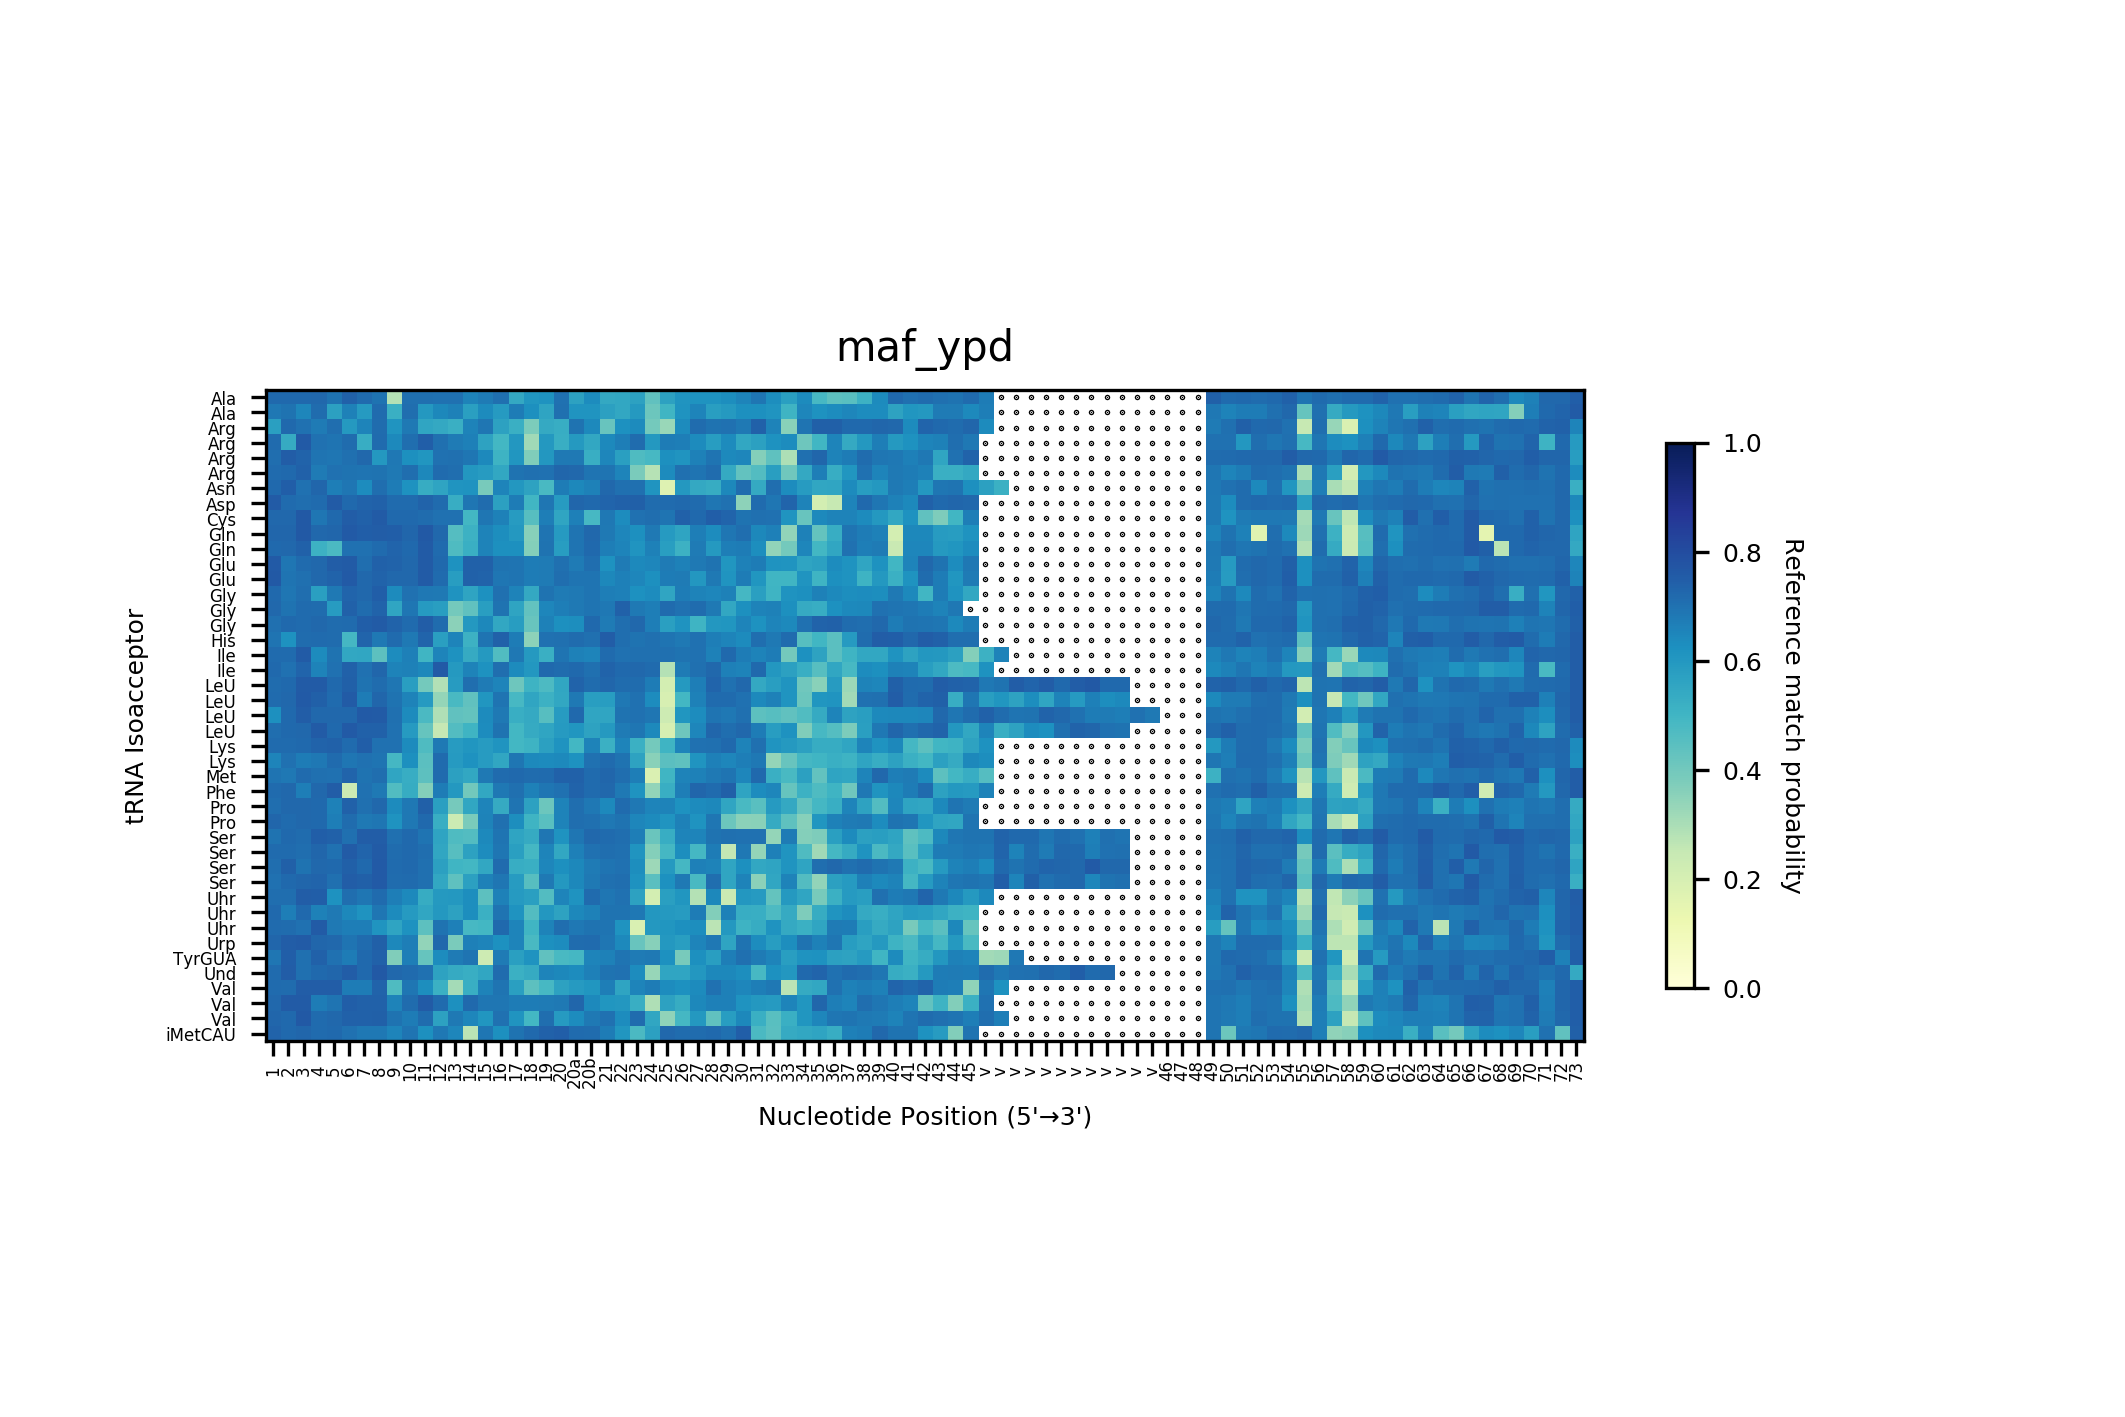
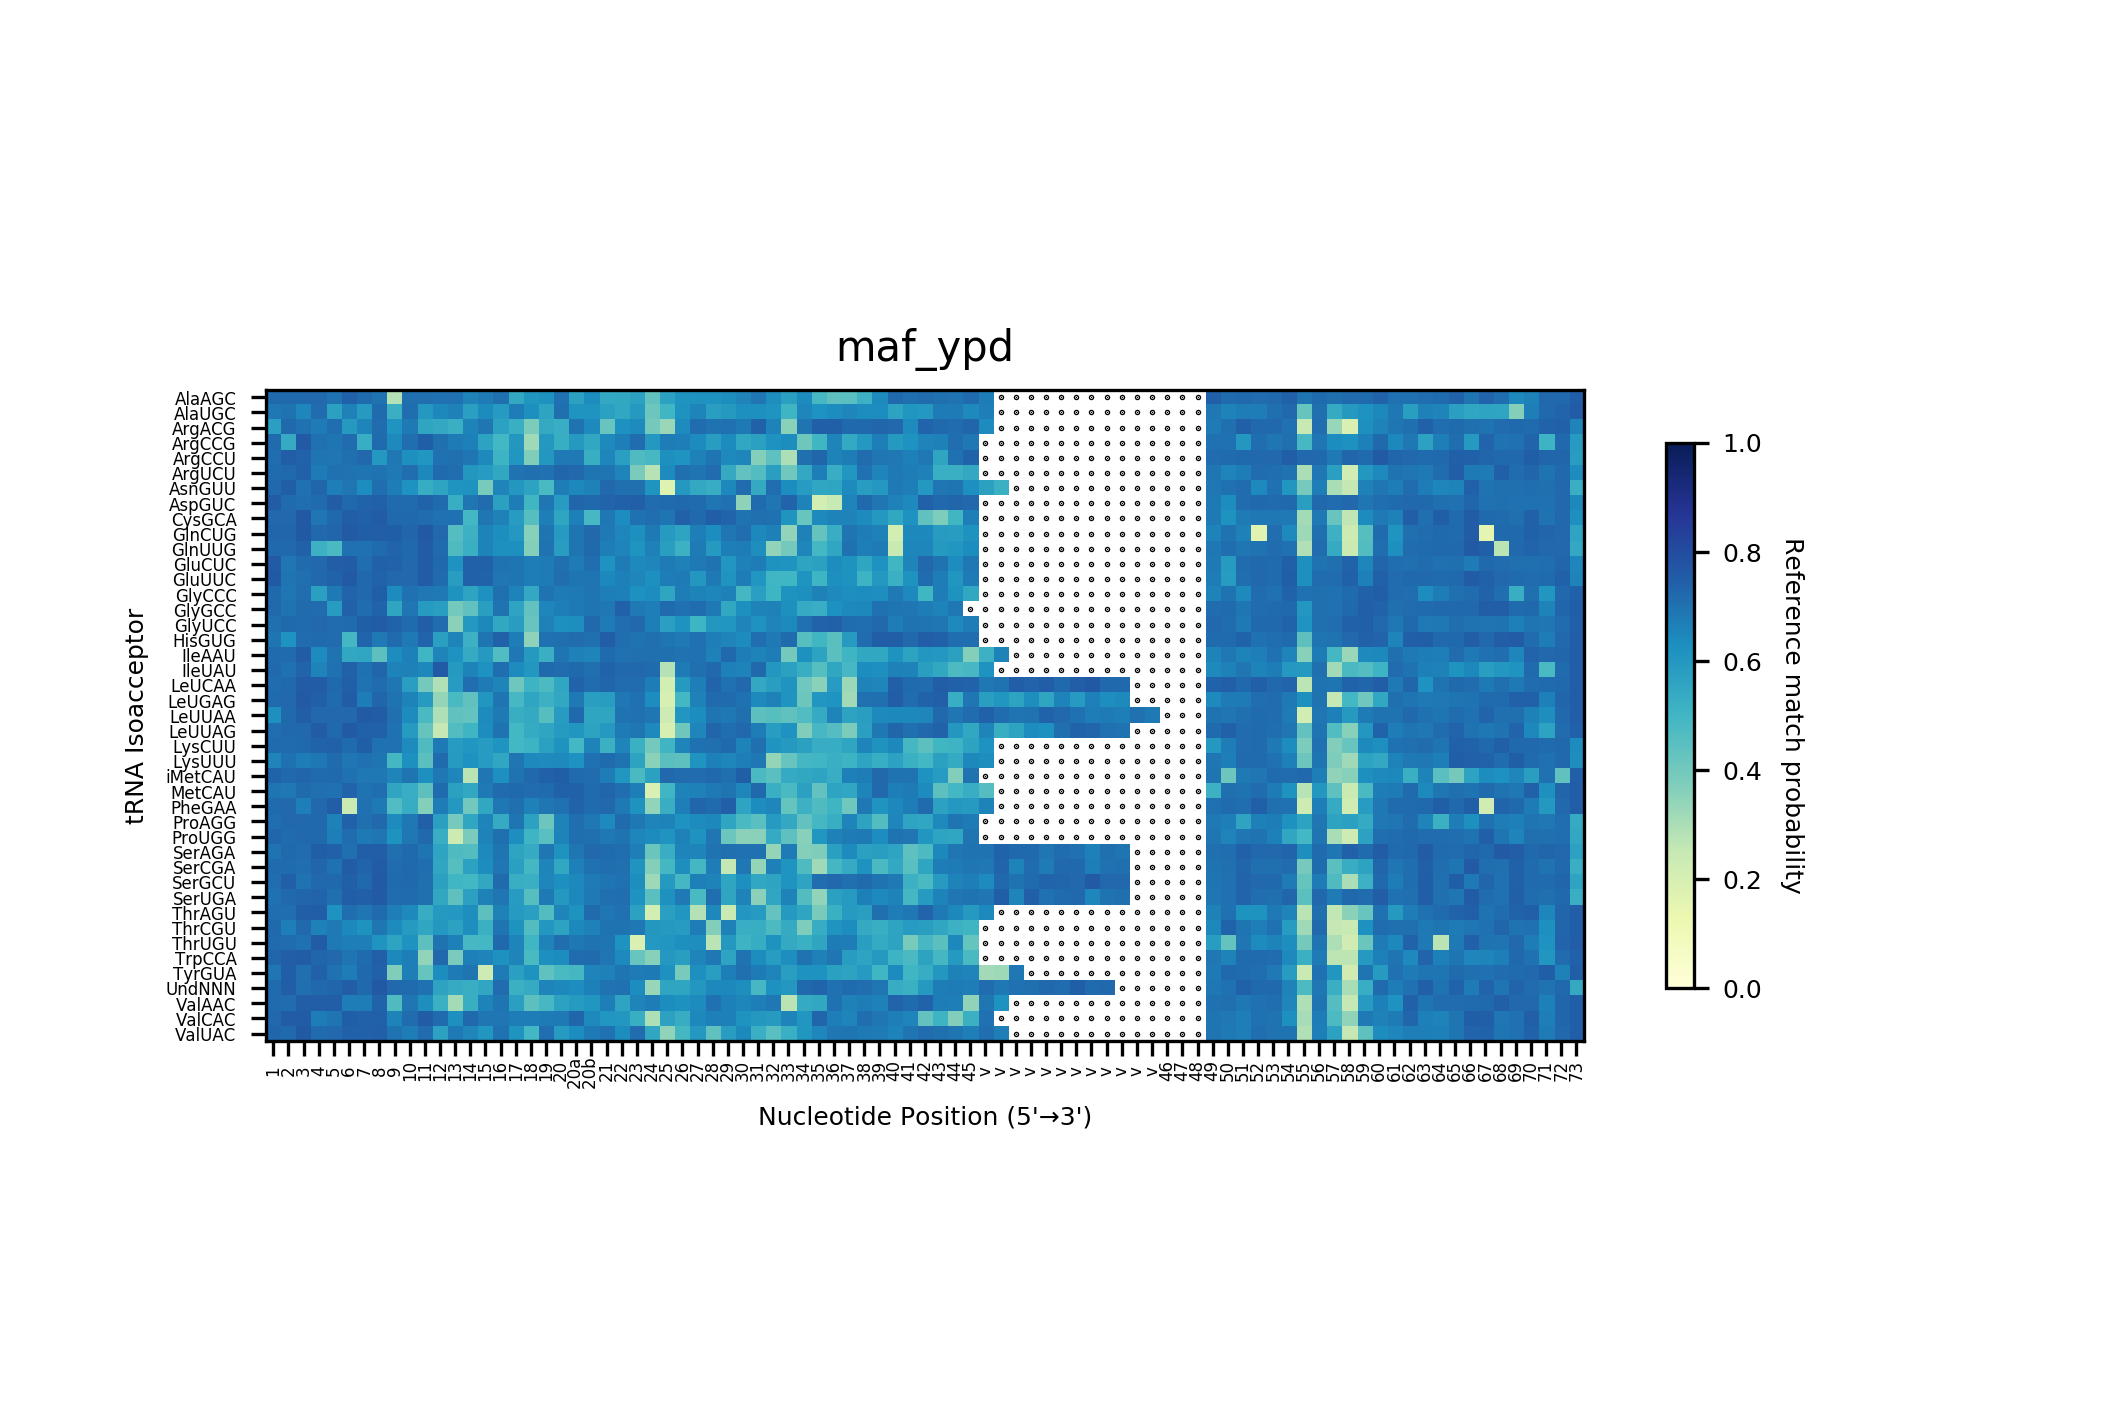
more results

Changed region(s): [[0.0621, 0.2795, 0.528, 0.7452], [0.5591, 0.5279, 0.7454, 0.7452]]

diff --git a/tRNAheatmap.py b/tRNAheatmap.py
@@ -18,7 +18,7 @@ plt.switch_backend('agg')
 
 
 class HeatmapGenerator:
-    def __init__(self, input_file, output_file, lengths_file, adaptors, title, resolution, difference, bidirectional,
+    def __init__(self, input_file, output_file, lengths_file, adaptors, title, resolution, difference, preffered_order, bidirectional,
                  structure):
         self.input_file = input_file
         self.output_file = output_file
@@ -27,6 +27,7 @@ class HeatmapGenerator:
         self.adaptors = [int(adaptors.split(',')[0]), int(adaptors.split(',')[1])]
         self.title = title
         self.difference = difference
+        self.preffered_order = preffered_order
         self.bidirectional = bidirectional
         self.resolution = resolution
 
@@ -69,11 +70,65 @@ class HeatmapGenerator:
         # Filter out tRNAs with adjusted length of 0
         self.tRNA_labels = [tRNA for tRNA, length in self.tRNA_lengths.items() if length > 0]
 
+        # Własna kolejność wierszy na heatmapie
+        preferred_order = []
+        if self.preffered_order:
+            preferred_order = [
+                "Saccharomyces_cerevisiae_tRNA-Asn-GTT-1-1",
+                "Saccharomyces_cerevisiae_tRNA-Arg-ACG-1-1",
+                "Saccharomyces_cerevisiae_tRNA-Arg-TCT-1-1",
+                "Saccharomyces_cerevisiae_tRNA-Cys-GCA-1-1",
+                "Saccharomyces_cerevisiae_tRNA-Ile-AAT-1-1",
+                "Saccharomyces_cerevisiae_tRNA-Ile-TAT-1-1",
+                "Saccharomyces_cerevisiae_tRNA-LeT-TAA-1-1",
+                "Saccharomyces_cerevisiae_tRNA-LeT-TAG-1-1",
+                "Saccharomyces_cerevisiae_tRNA-Lys-CTT-1-1",
+                "Saccharomyces_cerevisiae_tRNA-Lys-TTT-1-1",
+                "Saccharomyces_cerevisiae_tRNA-iMet-CAT-1-1",
+                "Saccharomyces_cerevisiae_tRNA-Met-CAT-1-1",
+                "Saccharomyces_cerevisiae_tRNA-Phe-GAA-1-1",
+                "Saccharomyces_cerevisiae_tRNA-Pro-TGG-1-1",
+                "Saccharomyces_cerevisiae_tRNA-Ser-GCT-1-1",
+                "Saccharomyces_cerevisiae_tRNA-Thr-AGT-1-1",
+                "Saccharomyces_cerevisiae_tRNA-Trp-CCA-1-1",
+                "Saccharomyces_cerevisiae_tRNA-Tyr-GTA-1-1",
+                "Saccharomyces_cerevisiae_tRNA-Val-AAC-1-1",
+                "Saccharomyces_cerevisiae_tRNA-Val-CAC-1-1",
+                "Saccharomyces_cerevisiae_tRNA-Val-TAC-1-1",
+                "Saccharomyces_cerevisiae_tRNA-Ala-AGC-1-1",
+                "Saccharomyces_cerevisiae_tRNA-Asp-GTC-1-1",
+                "Saccharomyces_cerevisiae_tRNA-Gly-GCC-1-1",
+                "Saccharomyces_cerevisiae_tRNA-Gly-TCC-1-1",
+                "Saccharomyces_cerevisiae_tRNA-Glu-TTC-1-1",
+                "Saccharomyces_cerevisiae_tRNA-His-GTG-1-1",
+                "Saccharomyces_cerevisiae_tRNA-LeT-CAA-1-1",
+                "Saccharomyces_cerevisiae_tRNA-Ser-AGA-1-1",
+                "Saccharomyces_cerevisiae_tRNA-Ser-CGA-1-1",
+                "Saccharomyces_cerevisiae_tRNA-Ser-TGA-1-1",
+                "Saccharomyces_cerevisiae_tRNA-Ala-TGC-1-1",
+                "Saccharomyces_cerevisiae_tRNA-Arg-CCG-1-1",
+                "Saccharomyces_cerevisiae_tRNA-Arg-CCT-1-1",
+                "Saccharomyces_cerevisiae_tRNA-Gln-CTG-1-1",
+                "Saccharomyces_cerevisiae_tRNA-Gln-TTG-1-1",
+                "Saccharomyces_cerevisiae_tRNA-Glu-CTC-1-1",
+                "Saccharomyces_cerevisiae_tRNA-Gly-CCC-1-1",
+                "Saccharomyces_cerevisiae_tRNA-LeT-GAG-1-1",
+                "Saccharomyces_cerevisiae_tRNA-Pro-AGG-1-1",
+                "Saccharomyces_cerevisiae_tRNA-Thr-CGT-1-1",
+                "Saccharomyces_cerevisiae_tRNA-Thr-TGT-1-1",
+        ]
+        self.tRNA_labels = [
+            tRNA for tRNA in preferred_order if tRNA in self.tRNA_labels
+        ] + [
+            tRNA for tRNA in self.tRNA_labels if tRNA not in preferred_order
+        ]
+
         for name in self.tRNA_labels:
-            if 'Tyr-GTA' in name:
-                self.clean_labels.append(name.split("-")[1]+name.split("-")[2])
-            else:
-                self.clean_labels.append(name.split("-")[1])
+            self.clean_labels.append(name.split("-")[1]+name.split("-")[2])
+#            if 'Tyr-GTA' in name:
+#                self.clean_labels.append(name.split("-")[1]+name.split("-")[2])
+#            else:
+#                self.clean_labels.append(name.split("-")[1])
 
         # Update the tRNA count based on the filtered tRNA labels
         self.tRNA_count = len(self.tRNA_labels)
@@ -382,6 +437,8 @@ def main():
     parser.add_argument("-t", "--title", type=str, default=None, help="Title of plot. Default is no title.")
     parser.add_argument("-d", "--difference", required=False, action="store_true",
                         help="Calculate the difference between two input files (second input - first input).")
+    parser.add_argument("-p", "--preffered_order", required=False, action="store_true",
+                        help="Order like Fig 3C")
     parser.add_argument("-b", "--bidirectional", required=False, action="store_true",
                         help="Produces difference plot with directionality maintained (cbar normalized from [-0.5, "
                              "0.5]).")
@@ -410,7 +467,7 @@ def main():
 
         # Process the first input file
         heatmap_generator = HeatmapGenerator(input_file1, args.output, args.lengths, args.adaptors, args.title,
-                                             args.resolution, args.difference, args.bidirectional, args.structure)
+                                             args.resolution, args.difference, args.preffered_order, args.bidirectional, args.structure)
         heatmap_generator.load_lengths()
         heatmap_generator.load_structure()
         heatmap_generator.import_data()
@@ -421,7 +478,7 @@ def main():
 
         # Process the second input file
         second_heatmap_generator = HeatmapGenerator(input_file2, args.output, args.lengths, args.adaptors,
-                                                    args.title, args.resolution, args.difference, args.bidirectional,
+                                                    args.title, args.resolution, args.difference, args.preffered_order, args.bidirectional,
                                                     args.structure)
         second_heatmap_generator.load_lengths()
         heatmap_generator.load_structure()
@@ -441,7 +498,7 @@ def main():
     else:
         # Process the input file without calculating the difference
         heatmap_generator = HeatmapGenerator(input_file1, args.output, args.lengths, args.adaptors, args.title,
-                                             args.resolution, args.difference, args.bidirectional, args.structure)
+                                             args.resolution, args.difference, args.preffered_order, args.bidirectional, args.structure)
         heatmap_generator.load_lengths()
         heatmap_generator.load_structure()
         heatmap_generator.import_data()
